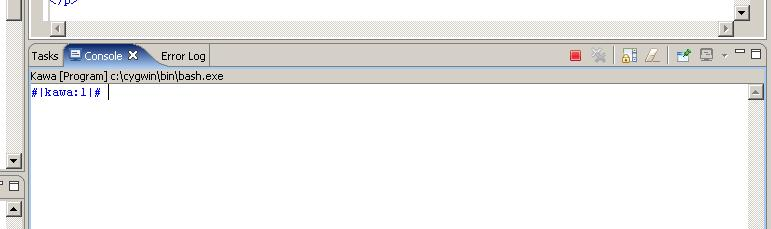
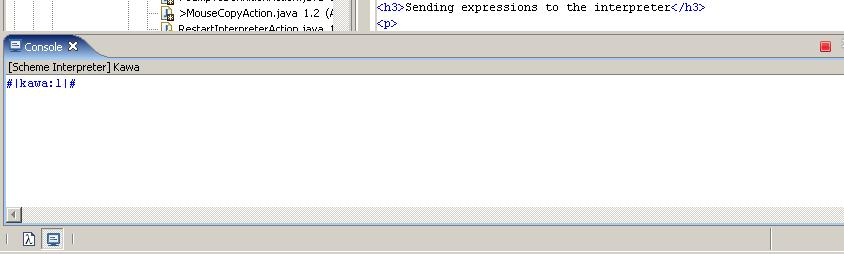
updated to reflect changes in v0.3.0

diff --git a/html/prefs.html b/html/prefs.html
@@ -11,7 +11,7 @@
 <h1>Preferences</h1>
 
 The Scheme preference pages are used to configure various aspects of
-the Scheme editor.
+the Scheme editor and it's integration with a Scheme interpreter.
 
 <h2>Scheme - main page</h2>
 <p>
@@ -20,7 +20,7 @@ the Scheme editor.
 	and indentation (those that are usually shared between members
 	of a development team).
 </p>
-<center><img src="images/schemeprefs.jpg"/></center>
+<center><img src="images/schemeprefs.JPG"/></center>
 
 <h2>Appearance</h2>
 <p>
@@ -28,7 +28,7 @@ the Scheme editor.
 	in a Scheme source file, as well as the background color, and the
 	way matching parentheses are highlighted.
 </p>
-<center><img src="images/appearprefs.jpg"/></center>
+<center><img src="images/appearprefs.JPG"/></center>
 
 <h2><a name="comments">Comments</a></h2>
 <p>
@@ -41,7 +41,7 @@ the Scheme editor.
 			the comment continue on the next line.</li>
 	</ul>
 </p>
-<center><img src="images/commentprefs.jpg"/></center>
+<center><img src="images/commentprefs.JPG"/></center>
 
 <h2>Indentation</h2>
 <p>
@@ -49,7 +49,7 @@ the Scheme editor.
 	page controls how sub-expressions are indented. To be easily readable by
 	others, Scheme code indentation must obey strict, standard rules.
 </p>
-<center><img src="images/indentprefs.jpg"/></center>
+<center><img src="images/indentprefs.JPG"/></center>
 <p>	
 	The page shows a three column table, with
 	some controls above it to add/remove entries in the table. Each entry corresponds to
@@ -88,12 +88,32 @@ the Scheme editor.
 	</ul>
 </p>
 
+<h2><a name="interp">Interpreter</a></h2>
+<p>
+	The Interpreter preference page is used to configure the Scheme interpreter 
+	with which the Scheme editor interacts.
+</p>
+<center><img src="images/interpreter.JPG"/></center>
+<p>
+	To set up a Scheme interpreter, you must provide:
+	<ul>
+		<li>the interpreter's name,</li>
+		<li>the command line to start the interpreter, and</li>
+		<li>the directory where the interpreter is started.</li>
+	</ul>
+</p>
+<h3><a name="fasteval">Fast Eval Keys</a></h3>
+<p>
+	You can configure the Fast Eval keys using the Fast Eval preference page:
+</p>
+<center><img src="images/fasteval.JPG"/></center>
+
 <h2>Lexical extensions</h2>
 <p>
 	Lexical extensions are flags that can be set to change how some tokens are 
 	processed in the Scheme source file. 
 </p>
-<center><img src="images/lexicalprefs.jpg"/></center>
+<center><img src="images/lexicalprefs.JPG"/></center>
 <p>
 	These flags are:
 	<ul>
@@ -112,7 +132,7 @@ the Scheme editor.
 	coloring the various symbols in a source file. Symbols not appearing in any of these
 	lists are colored using the default color and attributes.
 </p>
-<center><img src="images/syntaxprefs.jpg"/></center>
+<center><img src="images/syntaxprefs.JPG"/></center>
 
 <hr/>
 <p>

diff --git a/html/editing.html b/html/editing.html
@@ -14,7 +14,7 @@ The SchemeScript editor provides mainly useful editing commands. This section
 summarizes those commands (some of them are also available through
 the editor's context menu):
 
-<h2><a name="Sexpressions">S-expression-based editing</a></h2>
+<h2><a name="Commands">Editing commands</a></h2>
 
 <p>
 	The editor provides the following commands:
@@ -47,7 +47,7 @@ the editor's context menu):
 	</tr>
 	<tr><td class="command">Find Symbol</td>
 		<td>Pops up a dialog box that asks for a symbol prefix and displays all matching
-			symbols.</td>
+			symbols. <i>(Only available in the Scheme Perspective.)</i></td>
 		<td class="key">CTRL-F12</td>
 	</tr>
 	<!-- Selection -->
@@ -115,16 +115,36 @@ the editor's context menu):
 	</tr>
 	<!-- Evaluation -->	
 	<tr><td colspan="3" align="center" bgcolor="#dddddd"><b>Evaluation</b></td></tr>
+	
+	<tr><td class="command"><a name="eval">Start Interpreter</a></td>
+		<td>Starts the interpreter, if not already started. 
+			<i>(Only available in the Scheme Perspective.)</i></td>
+		<td class="key">F9</td>
+	<tr><td class="command"><a name="eval">Restart Interpreter</a></td>
+		<td>Restarts the interpreter unconditionally, first stopping any
+			running interpreter. <i>(Only available in the Scheme 
+				Perspective.)</i></td>
+		<td class="key">CTRL-F9</td>
 	<tr><td class="command"><a name="eval">Eval Expression</a></td>
-		<td>Sends the previous S-expression to the top-most console.</td>
+		<td>Sends the previous S-expression to the Scheme interpreter,
+			starting it if necessary.</td>
 		<td class="key">CTRL-RETURN</td>
 	<tr><td class="command">Eval Toplevel Expression</td>
-		<td>Sends the enclosing top-level S-expression to the top-most console
+		<td>Sends the enclosing top-level S-expression to the Scheme interpreter,
+			starting it if necessary
 			(useful when the cursor is inside a top-level definition and we want
 			to send to definition to the interpreter).</td>
 		<td class="key">CTRL-SHIFT-RETURN</td>
 	</tr>
-	
+	<tr><td class="command"><a name="eval">Fast Eval 0</a></td>
+		<td>Sends a predefined string to the Scheme interpreter, starting it
+			if necessary.</td>
+		<td class="key">ALT-k 0</td>
+	<tr><td></td><td>...</td><td></td></tr>
+	<tr><td class="command"><a name="eval">Fast Eval 9</a></td>
+		<td>Sends a predefined string to the Scheme interpreter, starting it
+			if necessary.</td>
+		<td class="key">ALT-k 9</td>
 </table>
 
 <h2><a name="Mousecopy">Mouse copy</a></h2>

diff --git a/html/interp.html b/html/interp.html
@@ -8,32 +8,22 @@
 </head>
 
 <body>
-<h1>Interacting with an interpreter</h1>
+<h1>Interacting with a Scheme interpreter</h1>
 
 <p>
-	SchemeScript provides a minimal interface to Scheme interpreters. There are plans
-	to provide better support in the next releases.
+	SchemeScript provides a minimal interface to Scheme interpreters. 
 </p>
 
 <h3>Configuring the interpreter</h3>
 <p>
-	To define an interpreter, select the Run/External Tools/External Tools... menu item.
-</p>
-<center><img src="images/run.jpg"/></center>
-<p>
-	Create a new configuration for the interpreter. Give it a meaningful name, like the
-	interpreter's name. Make sure to properly add any command-line argument that
-	rquired by the interpreter (for example, Gambit-C 4.0 requires
-	the <code>-:d-</code> option to run as a child process).
+	To configure a Scheme interpreter, open the <a href="prefs.html#interp">Interpreter preference page</a>.
 </p>
 
 <h3>Launching the interpreter</h3>
 <p>
-	To launch the interpreter, simply select the interpreter from the "Run" menu:
-</p>
-<center><img src="images/start.jpg"/></center>
-<p>
-	The interpreter will be accessible from the Console View:
+	To launch the interpreter from the Scheme perspective, select the "Scheme/Start Interpreter"
+	menu item or click on the "Start Interpreter" toolbar button. The interpreter will be accessible 
+	from the Console View:
 </p>
 <center><img src="images/console.jpg"/></center>
 <p>
@@ -46,7 +36,24 @@
 	<b>Eval Expression</b> and <b>Eval toplevel Expression</b> commands from
 	the editor (<i> &agrave; la </i> Emacs). See <a href="editing.html#eval">Editing</a>.
 </p>
+<p>
+	For example, suppose that the cursor is located after the closing parenthesis in:
+	<center><img src="images/console.jpg"/></center>
+	Pressing Ctrl-Enter will send to whole expresssion (the <code>define</code>	form)
+	to the interpreter.
+</p>
 
+<h3>Fast Eval keys</h3>
+<p>
+	<i>Fast Eval keys</i> are configurable commands that send predefined expressions
+	to the interpreter. These expressions are configured in the 
+    <a href="prefs.html#fasteval">Fast Eval preference page</a>.
+</p>
+<p>
+	For example, suppose that Fast Eval Key #0 is set to <code>(test)</code>. Every time
+	the Fast Eval 0 command is run (by pressing Alt-K 0 by default), the string
+	<code>(test)</code> is sent to the interpreter. 
+</p>
 <hr/>
 <p>
 	Copyright (C) 2004 <b>Dominique Boucher</b>.

diff --git a/html/overview.html b/html/overview.html
@@ -62,6 +62,47 @@
 		<li>add or remove key sequences.</li>
 	</ul> 
 </p>
+
+<h2>Recent Changes</h2>
+
+<ul>
+	<li><b>Version 0.3.0</b>
+		<ul>
+			<li>Added a Scheme perspective, with menus, toolbar actions
+			<li>Added integrated Scheme interpreter support
+			<li>>Added fast eval keys
+			<li>Bug fixes (parenthesis highlighting works even when the first
+		     character of the file is an opening parenthesis,
+			 renaming a file no longer breaks parenthesis highlighting,
+		     pressing TAB on an already indented line no longer marks
+		     the file as modified)
+		</ul>
+	</li>
+	<li>
+		<b>Version 0.2.1</b>
+		<ul>
+			<li>The "Find Definition" action now opens the "Definitions" view
+			<li>Added a "Find Symbol" action that pops up a dialog box for 	
+			  querying a symbol definition
+		</ul>
+	</li>
+	<li>
+		<b>Version 0.2.0</b>
+		<ul>
+			<li>Added a first version of the documentation
+			<li>A new icon with transparent background
+			<li>Bug fix: strings can now contain backslash characters (<code>\</code>)
+		</ul>
+	</li>
+</ul>
+
+
+<h2><a name="Acknowledgments">Acknowledgments</a></h2>
+<p>
+	This work has been partly sponsored by:<br/>
+	<a href="http://www.nuecho.com"><img src="images/nuecho.jpg"/></a>
+</p>
+
 <hr/>
 <p>
 	Copyright (C) 2004 <b>Dominique Boucher</b>.

diff --git a/html/toc.html b/html/toc.html
@@ -10,8 +10,8 @@
 <body>
 <h1>SchemeScript User Guide</h1>
 
-This short guide describes SchemeScript, an industrial-strength Scheme editor plug-in for Eclipse. 
-
+SchemeScript is an industrial-strength Scheme editor plug-in for Eclipse. <br/><br/>
+This short guide describes SchemeScript version 0.3.0.
 <hr/>
 <p>
 	Copyright (C) 2004 <b>Dominique Boucher</b>.
